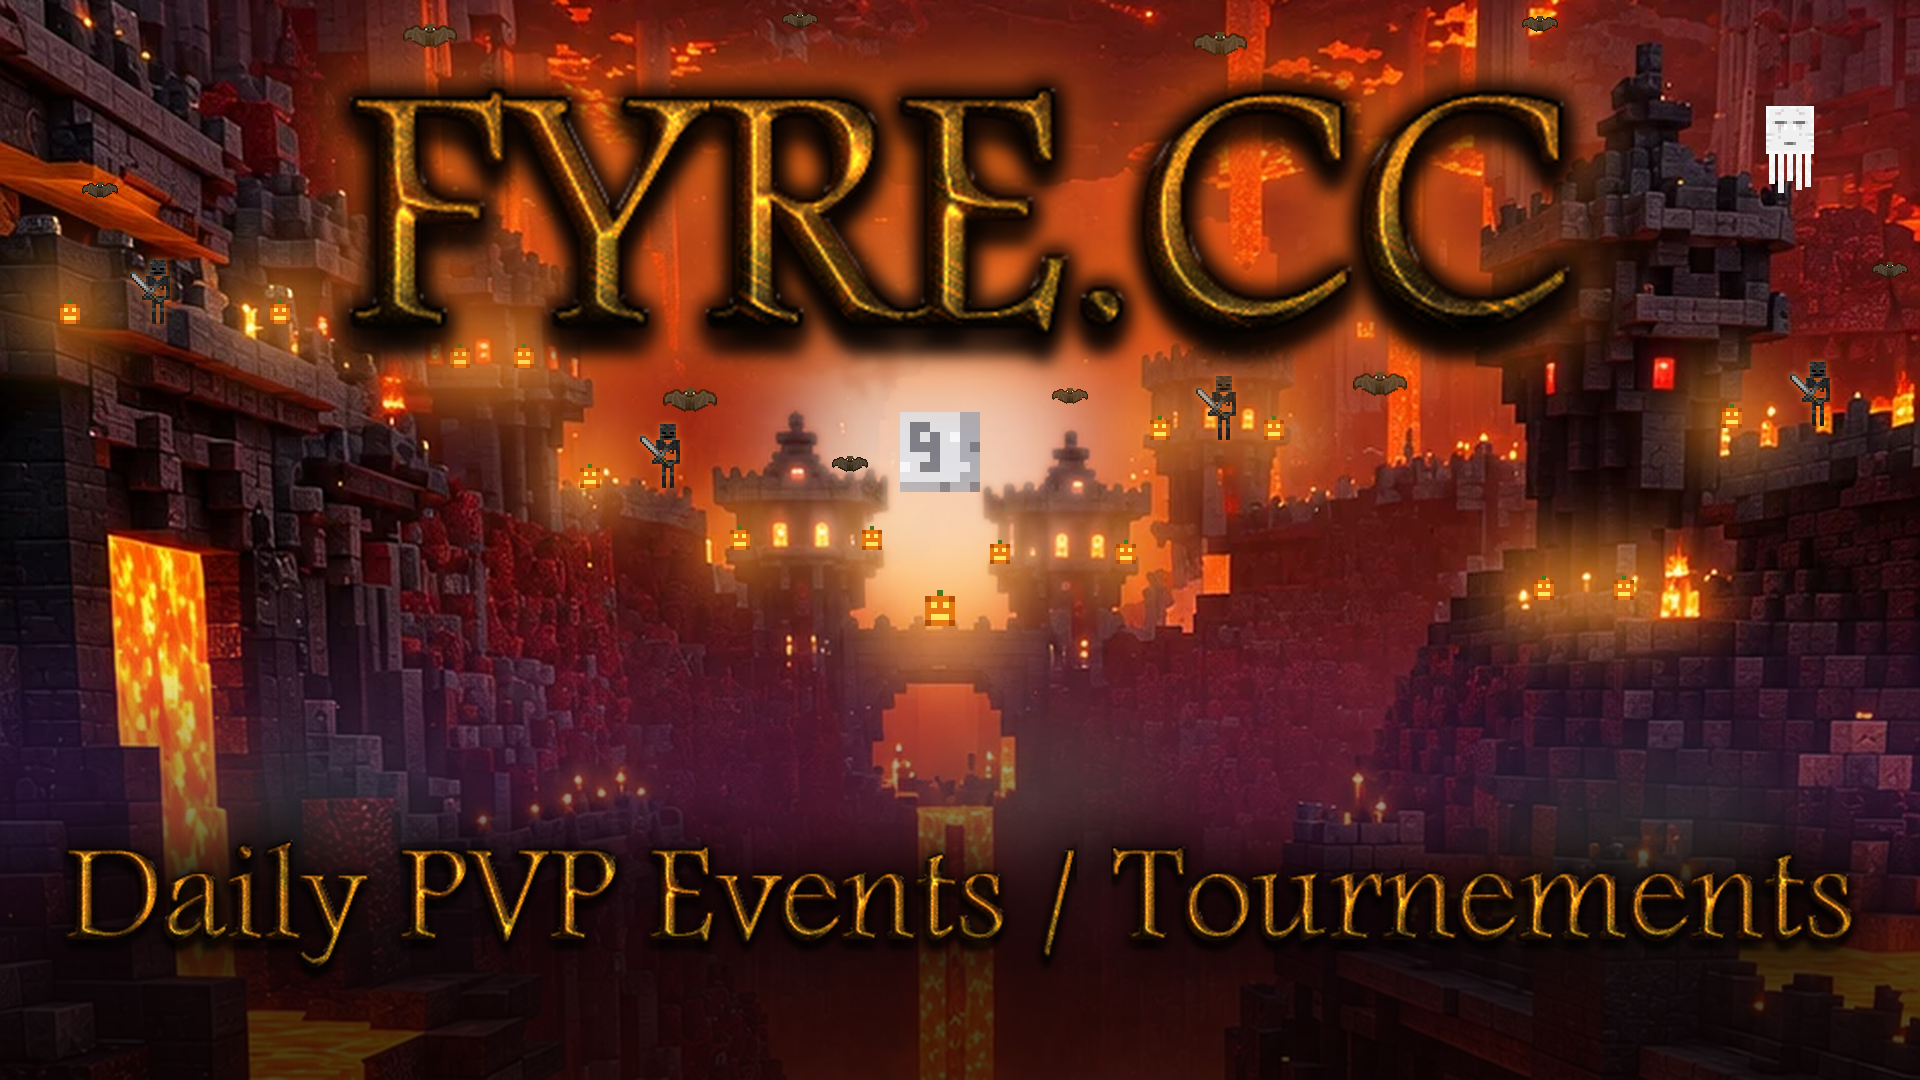
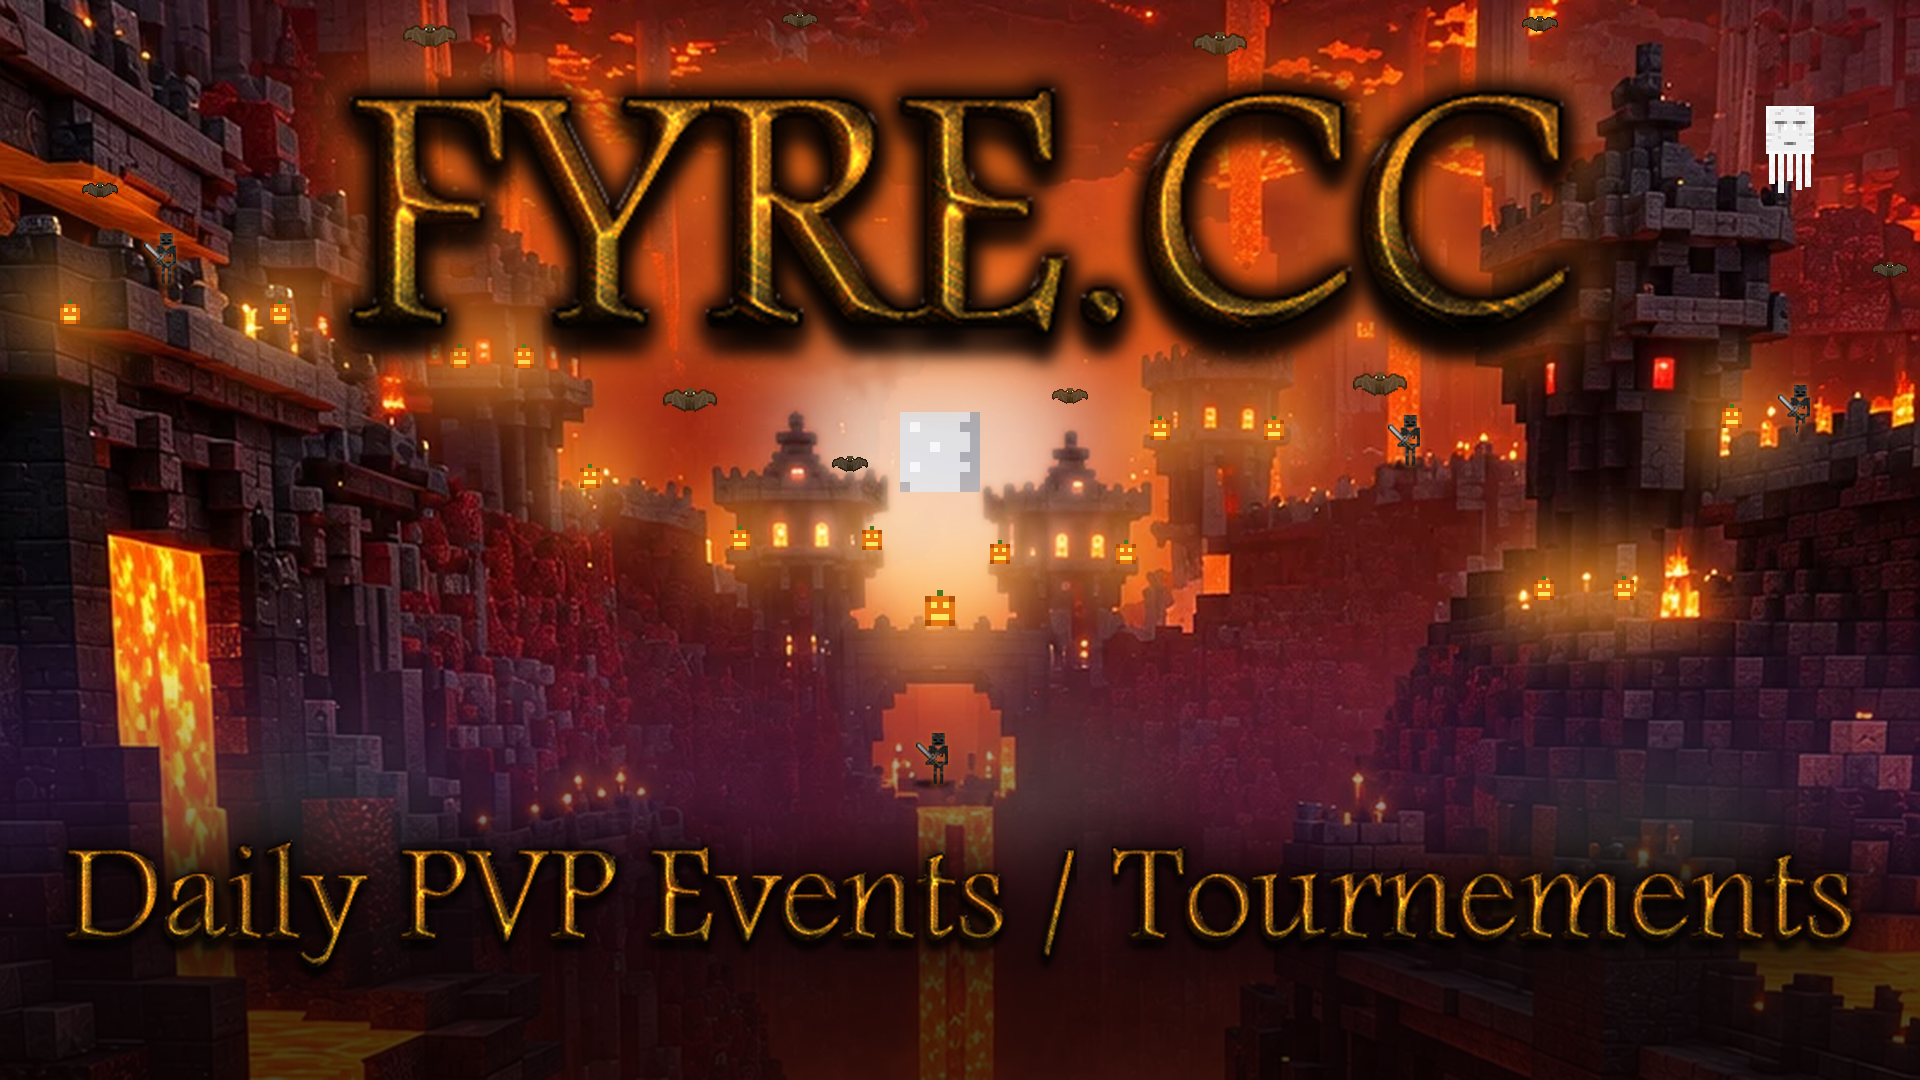
Ground the wither skeletons and plain up the moon
Skeletons now stand on measured stone surfaces with a contact shadow
(or behind a parapet): one on the ledge beside the central lavafall,
one on the right wall top, one on the far-right battlements, one on
the far-left ledge. Drop the dark crater shape from the moon face.

Claude-Session: https://claude.ai/code/session_01LPehDgsXCVDFiYqWq7LdDj

diff --git a/branding/fyre/halloween.py b/branding/fyre/halloween.py
@@ -27,7 +27,13 @@ def sprite(d, rows, cx, cy, block):
 
 MOBS = Path(__file__).with_name('mobs')
 
-def mob(base, name, x, y, scale, anchor='center', rim=False):
+def sky_mask(base):
+    """255 where the background is bright open sky, 0 over stone."""
+    r, g, b = base.split()
+    sky = ImageChops.subtract(r, b).point(lambda v: 255 if v > 95 else int(v * 2.6))
+    return ImageChops.multiply(sky, base.convert('L').point(lambda v: 255 if v > 70 else v * 3))
+
+def mob(base, name, x, y, scale, anchor='center', rim=False, behind=None, shadow=False):
     """Paste a mob sprite; whole-number scales stay pixel-crisp, fractional ones are smoothed."""
     im = Image.open(MOBS / f'{name}.png').convert('RGBA')
     size = (max(1, round(im.width * scale)), max(1, round(im.height * scale)))
@@ -35,6 +41,19 @@ def mob(base, name, x, y, scale, anchor='center', rim=False):
     im = im.resize(size, Image.NEAREST if whole else Image.LANCZOS)
     top = y - im.height if anchor == 'bottom' else y - im.height / 2
     pos = (round(x - im.width / 2), round(top))
+    if behind is not None:
+        # standing behind a parapet: below its top line, stone stays in front of the mob
+        sky = sky_mask(base).crop((pos[0], pos[1], pos[0] + im.width, pos[1] + im.height))
+        keep = Image.new('L', im.size, 255)
+        cut = max(0, round(behind - pos[1]))
+        keep.paste(sky.crop((0, cut, im.width, im.height)).point(lambda v: 255 if v > 120 else 0), (0, cut))
+        im.putalpha(ImageChops.multiply(im.getchannel('A'), keep))
+    if shadow:
+        # soft contact shadow where the feet meet the ledge
+        sh = Image.new('L', base.size)
+        w = im.width * .55
+        ImageDraw.Draw(sh).ellipse([x - w, y - 2*scale, x + w, y + 2*scale], 170)
+        base.paste((8,2,3), (0, 0), sh.filter(ImageFilter.GaussianBlur(1.2*scale)))
     if rim:  # faint orange rim light so dark mobs read against dark stone
         pad = max(2, round(4 * scale))
         a = Image.new('L', (im.width + 2*pad, im.height + 2*pad))
@@ -111,10 +130,12 @@ def scene(base):
         sprite(d, PUMPKIN, x*f, y*f - len(PUMPKIN) * b / 2, b)
 
     # mobs built from Minecraft's own textures (see mobs/README.md), spread across the width:
-    # wither skeletons standing on ledges (x, surface y), the ghast in the lava-lit top corner,
+    # wither skeletons standing behind battlements or on a ledge, the ghast in the lava-lit top corner,
     # bats in the bright sky bands (x, y, scale)
-    for x, y in ((75, 162), (330, 244), (608, 220), (905, 213)):
-        mob(base, 'wither_skeleton', x*f, y*f, f, anchor='bottom', rim=True)
+    # (x, feet y, parapet top y or None for an open ledge)
+    for x, y, wall in ((80, 142, None), (466, 392, None), (702, 233, None), (897, 218, 212)):
+        mob(base, 'wither_skeleton', x*f, y*f, .8*f, anchor='bottom', rim=True,
+            behind=wall*f if wall else None, shadow=wall is None)
     mob(base, 'ghast', 895*f, 75*f, 1.5*f)
     for x, y, s in ((50,95,.5), (215,18,.75), (400,10,.5), (610,22,.75), (770,12,.5),
                     (945,135,.5), (345,200,.75), (425,232,.5), (535,198,.5), (690,192,.75)):
@@ -130,15 +151,15 @@ def logo_halo(base, im, pos, pad, W):
     tight = a.filter(ImageFilter.MaxFilter(2*(W//480)+1)).filter(ImageFilter.GaussianBlur(W/240))
     base.paste((12,2,3), (pos[0]-pad, pos[1]-pad), tight.point(lambda v: int(v * .9)))
 
-# The Minecraft full moon, 8x8: pale face, grey craters, darker right edge and base.
-MOON = ["LLLLLLMM",
-        "LDDLLLMM",
-        "LDLDLWMM",
-        "LDDDLLMD",
-        "LLLDLLMM",
-        "WLDDLLLM",
+# The Minecraft full moon, 8x8: pale face with a shaded right edge.
+MOON = ["LLLLLLLM",
+        "LWLLLLMM",
+        "LLLLLLLM",
+        "LLLWLLLM",
         "LLLLLLMM",
-        "MMMMDMMD"]
+        "LWLLLLLM",
+        "LLLLLLMM",
+        "MLLLLLMM"]
 MOON_COLORS = {'L': (224,224,228), 'W': (246,246,250), 'M': (172,172,180), 'D': (124,124,134)}
 
 def render_moon(W, H, mx, my, size):
